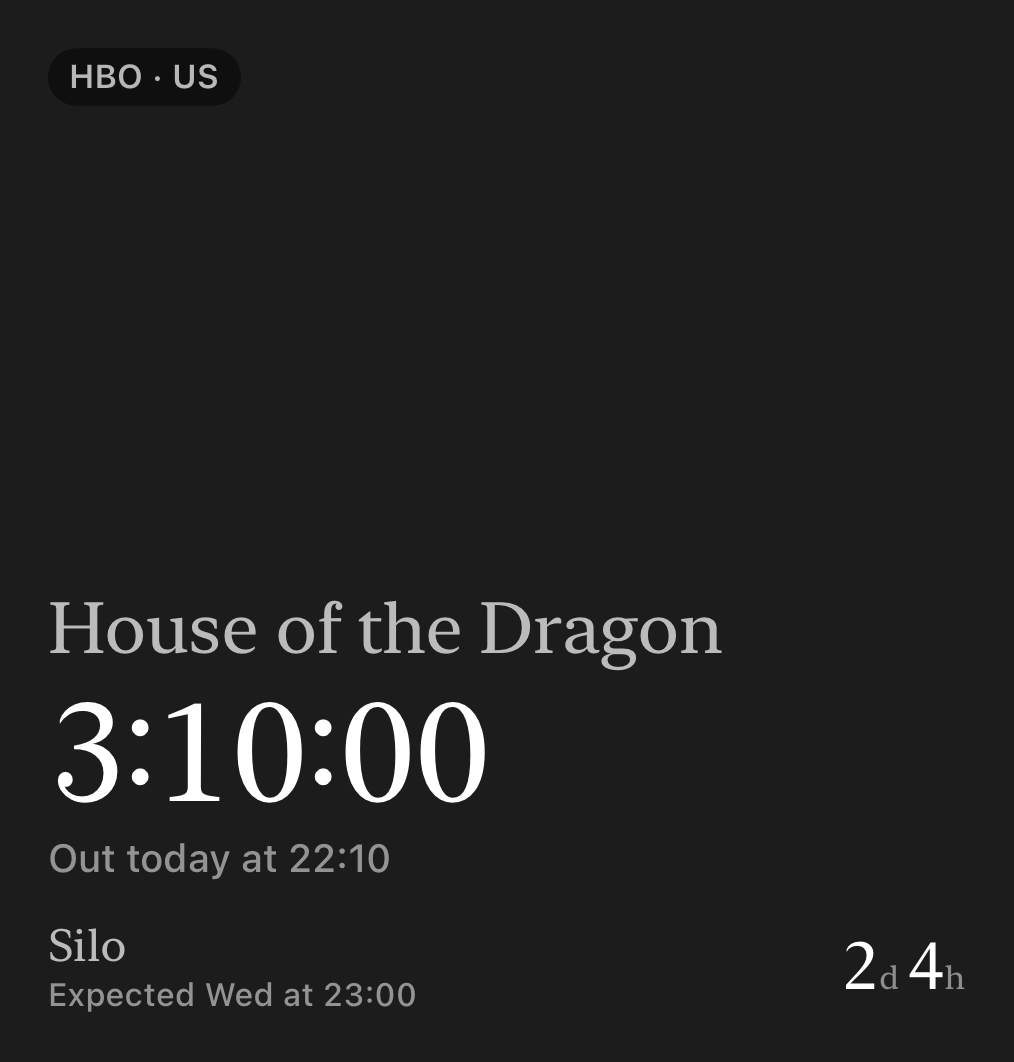
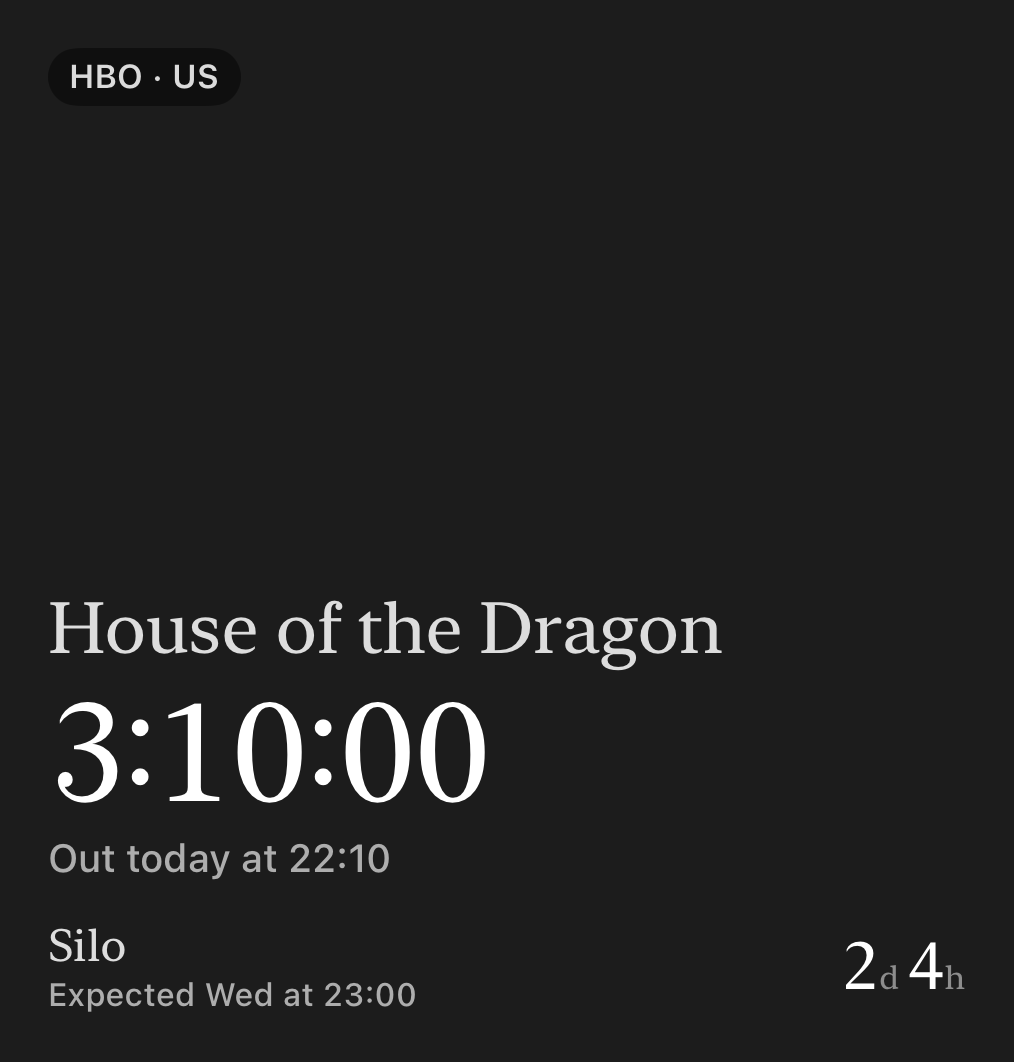
feat: the small audit items: one header style, legible Always-On, Smart Invert, one primary button, haptics, VoiceOver (UX audit #18, #21, #23, #26, #27, #29, #32)
- Search's "Results" uses the section-header style; grid titles are a step above their info lines.
- Always-On dims inks to 0.85 (muted text above 4.5:1; it was 3.45:1 at 0.7). Renders re-synced.
- Smart Invert leaves art, posters, wall tiles, logos (with their white tile) and widget posters alone.
- PrimaryButtonStyle: a white 50 pt capsule for Welcome's and empty Upcoming's "Find a show".
- Haptics on a follow that saved, the TV/Anime switch and a chip tap, each once.
- Spotlight, empty and Welcome headlines are headers; "S4E1 · HBO · US" is read "Season 4, episode 1, HBO US".

diff --git a/design-system/index.html b/design-system/index.html
@@ -774,15 +774,13 @@ Text(ReleaseWording.quietNote(status: show.status, lastAired: show.lastAired, fo
     </div>
     <div class="spec"><dl class="specs">
       <dt>Type</dt><dd>Headline New York 28 · error footnote, muted</dd>
-      <dt>Button</dt><dd><code>.borderedProminent</code>, white tint, black text, default height</dd>
+      <dt>Button</dt><dd><code>PrimaryButtonStyle</code>: the app’s one primary button, a white capsule at least 50 tall with black <code>.headline</code> text (UX audit #27)</dd>
       <dt>Layout</dt><dd>Sides 24, top 120</dd>
       <dt>Offline</dt><dd>When a refresh can’t reach every show, the last line says how old the times are and which shows didn’t refresh. “14:05” is the last refresh that reached every show, with the weekday when it was another day; no source is named (<code>UpcomingStatus</code>). A followed show’s next episode is asked again once its cached answer is 15 minutes old (D-59)</dd>
       <dt>IDs</dt><dd><code>upcoming-empty-follow</code>, <code>upcoming-empty-find</code>, <code>upcoming-empty</code>, <code>upcoming-failed</code></dd>
       <dt>Source</dt><dd class="path">Features/Upcoming/UpcomingView.swift:29-77, 120-133</dd>
     </dl><div class="codebox"><pre><code>Button("Find a show", action: onFind)
-    .buttonStyle(.borderedProminent)
-    .tint(.white)
-    .foregroundStyle(.black)
+    .buttonStyle(PrimaryButtonStyle())
     .accessibilityIdentifier("upcoming-empty-find")</code></pre></div></div>
   </article>
   </div>
@@ -879,7 +877,7 @@ AiringFilter.options(for: .tv)   // [.popular, .today, .newSeasons, .exactTime] 
     <div class="spec"><dl class="specs">
       <dt>Poster</dt><dd>2:3, radius 8; TVmaze 210 × 295, loaded at 420 px</dd>
       <dt>Type</dt><dd>Title footnote medium, two lines · meta caption, muted, two lines a part</dd>
-      <dt>Headers</dt><dd>New York 22: “Airing in the next few days” · “Airing in Japan this week” · “Results”</dd>
+      <dt>Headers</dt><dd>“Results” uses the section-header style Upcoming and Show detail use, SF Pro subheadline medium, muted (UX audit #18). Grid titles are subheadline medium, a step above their 12 pt info lines (#26)</dd>
       <dt>VoiceOver</dt><dd>“Tracker, button, Opens the show”; the meta reads as one line, “2023 · HBO · US · Running”</dd>
       <dt>IDs</dt><dd><code>airing-&lt;n&gt;</code> or <code>search-result-&lt;n&gt;</code>, with <code>-title</code>, <code>-meta</code>, <code>-follow</code>; headers <code>search-airing-header</code>, <code>search-results-header</code></dd>
       <dt>Hit target</dt><dd>The whole cell opens the show page; the (+) follows</dd>
@@ -1147,7 +1145,7 @@ Section {
       <dt>Wall</dt><dd>This week’s show art, under the status bar over the top 60% of the screen: three rows 128, 172 and 128 tall, 8 apart, each starting part-way into its run so no two line up. TV posters and anime covers, with the first three TV shows as wide key art and every third anime as its wide banner; posters 2:3, wide art 16:9, radius 10, on white at 0.05 until each picture loads. Dimmed with night at 0.18, faded out by 90% of the rows’ height, and night at 0.7 fading to clear over the top 96 pt. Under 9 pictures the screen stays plain night. Hidden from VoiceOver</dd>
       <dt>Motion</dt><dd>The wall fades in over 0.35 s, ease out, and so does each picture as it loads. Rows drift 9 pt a second, alternating direction. Under Reduce Motion the fades are skipped and the rows stay still</dd>
       <dt>Type</dt><dd>Logo lockup: the Longitudes mark (36 tall, gold star, scales with text size) and “Meridian” in New York title 2 (22), both Starlight · headline New York 34 · zone body medium, secondary</dd>
-      <dt>Primary</dt><dd>“Find a show”: full width, 48 tall, <code>.borderedProminent</code>, white tint, black text</dd>
+      <dt>Primary</dt><dd>“Find a show”: <code>PrimaryButtonStyle</code>, full width, at least 50 tall, white capsule, black <code>.headline</code></dd>
       <dt>Secondary</dt><dd>“Not now”: secondary ink, 44 tall</dd>
       <dt>IDs</dt><dd><code>welcome-logo</code>, <code>welcome-zone</code>, <code>welcome-find</code>, <code>welcome-later</code></dd>
       <dt>Source</dt><dd class="path">Features/Welcome/WelcomeView.swift · WelcomeWallView.swift · WelcomeWall.swift</dd>
@@ -1217,7 +1215,7 @@ Section {
     <div id="w-home" data-search="home screen widget backdrop art fade small medium large" data-title="Home Screen widgets" data-kind="Widget"><dt>Home Screen</dt><dd>Night base <code>#1C1C1C</code> with the show’s art across the top (all of it on small and medium, 62% on large), fading clear, then to 0.7, then to the base. The service is tagged top left (“HBO · US”), and “+N more this week” top right when shows don’t fit. Small shows one show, medium three, large four.</dd></div>
     <div id="w-lock" data-search="lock screen widget inline circular rectangular tinted" data-title="Lock Screen widgets" data-kind="Widget"><dt>Lock Screen</dt><dd>System inks, because iOS tints them. Inline: “Silo · 2d 4h”. Circular: an open ring that fills over the last 7 days, a <code>tv</code> glyph, and “2d”, “4h” or “38m” in the gap. Rectangular: “Expected Wed 23:00”, then the name, then the countdown and service.</dd></div>
     <div id="w-quiet" data-search="quiet rows nothing scheduled empty state follow a show returns widget" data-title="Quiet rows and empty states" data-kind="Widget"><dt>Quiet rows</dt><dd>Followed shows with nothing scheduled fill spare rows: poster, name, “Nothing scheduled”; the large widget adds why. Empty: “Follow a show” with “Its countdown shows up here.”, “Nothing scheduled” with “Meridian checks again each time you open it.”, or “Silo returns Fri 9 Jul 2027” with “Nothing else is scheduled.”</dd></div>
-    <div id="w-modes" data-search="always on tinted accented rendering modes widget dimmed" data-title="Rendering modes" data-kind="Widget"><dt>Tinted and Always-On</dt><dd>When tinted, the countdown takes the tint, and so does the headline when there’s nothing to count down (“Follow a show”, “Nothing scheduled”, “Silo returns …”). On the Lock Screen so do the inline line, the rectangular widget’s title, and the circular widget’s ring fill, value and date-only day number. Everything else keeps its ink, “Out now” loses its gold, and posters lose their colour. Always-On hides the art and dims every ink to 0.7 except the countdown and that empty headline.</dd></div>
+    <div id="w-modes" data-search="always on tinted accented rendering modes widget dimmed" data-title="Rendering modes" data-kind="Widget"><dt>Tinted and Always-On</dt><dd>When tinted, the countdown takes the tint, and so does the headline when there’s nothing to count down (“Follow a show”, “Nothing scheduled”, “Silo returns …”). On the Lock Screen so do the inline line, the rectangular widget’s title, and the circular widget’s ring fill, value and date-only day number. Everything else keeps its ink, “Out now” loses its gold, and posters lose their colour. Always-On hides the art and dims every ink to 0.85 except the countdown and that empty headline, so muted text stays above 4.5:1 (it was 0.7, 3.45:1: UX audit #21).</dd></div>
     <div id="w-a11y" data-search="widget voiceover accessibility label phrase" data-title="Widget VoiceOver" data-kind="Widget"><dt>VoiceOver</dt><dd>One full phrase a show: “House of the Dragon, in 3 hours, HBO US, no official stream in your country”; “Silo, expected in 2 days 4 hours, Apple TV”; “Nothing scheduled for your shows”. The episode title is left out, so nothing is spoiled.</dd></div>
     <div id="w-ids" data-search="widget ids accessibility identifiers" data-title="Widget IDs" data-kind="Widget"><dt>IDs</dt><dd><code>widget-inline</code> · <code>widget-circular-ring</code>, <code>-value</code> · <code>widget-rect-meta</code>, <code>-title</code>, <code>-countdown</code>, <code>-provider</code> · <code>widget-small-provider</code>, <code>-title</code>, <code>-countdown</code>, <code>-out</code> · <code>widget-medium-row-1</code> to <code>-3</code>, <code>widget-large-row-1</code> to <code>-4</code>, <code>widget-more</code>, <code>widget-medium-empty</code>, <code>widget-large-empty</code></dd></div>
   </dl>
@@ -1294,7 +1292,7 @@ Section {
       <tr><td>Contrast</td><td id="a11y-contrast">See the <a href="#contrast">contrast matrix</a>.</td><td id="a11y-contrast-status">See matrix</td></tr>
       <tr><td>Dynamic Type</td><td>Everything in the app grows with the text size. Serif titles keep their designed size (32, 34, 28, 22, 20) and grow like large titles (<code>.serif(_:relativeTo:)</code>); countdowns grow like a large title too, 1.76 times at the largest size. At the accessibility sizes: a row’s countdown goes under its title, the service line and titles are never cut, Show detail’s episodes stack, the art header is 280 tall, Search shows one poster a row, Welcome scrolls and drops the poster wall. Widgets and the Live Activity keep fixed sizes on their fixed canvas. Checked at AX5 on every main screen (2 Nov).</td><td>Done</td></tr>
       <tr><td>Reduce Motion</td><td>The three animations stop: the 0.35 s art fade and Welcome’s two fades (the wall, and each picture on it) are skipped, and the wall’s drifting rows stay still.</td><td>Done</td></tr>
-      <tr><td>Tinted and Always-On</td><td>The countdown and the empty headline take a widget’s tint; on the Lock Screen so do the inline line, the rectangular title and the circular ring, value and day number. Always-On hides the art and dims every other ink to 0.7.</td><td>Done</td></tr>
+      <tr><td>Tinted and Always-On</td><td>The countdown and the empty headline take a widget’s tint; on the Lock Screen so do the inline line, the rectangular title and the circular ring, value and day number. Always-On hides the art and dims every other ink to 0.85 (was 0.7), so muted text stays legible.</td><td>Done</td></tr>
       <tr><td>Decorative images</td><td>Art, posters, logos, the Welcome wall and the poster mark are hidden from VoiceOver. Only one picture is labelled: the key art on the show page that Search opens (<code>ShowPreviewView</code>), read “Silo artwork, image”. Show detail’s and Upcoming’s art stay hidden.</td><td>Done</td></tr>
     </tbody></table></div>
 

diff --git a/Meridian/Features/Search/SearchView.swift b/Meridian/Features/Search/SearchView.swift
@@ -18,6 +18,8 @@ struct SearchView: View {
 
     /// The show whose ✓ was tapped, waiting for "Stop following …?".
     @State private var unfollowing: SearchResult?
+    /// Counts follow taps in the grid: the success tick follows a tap here, not a follow made on a pushed show page.
+    @State private var followTaps = 0
     @Environment(\.dynamicTypeSize) private var dynamicTypeSize
     @Environment(\.modelContext) private var context
     @Query(sort: \FollowedShow.followedAt) private var followed: [FollowedShow]
@@ -54,6 +56,8 @@ struct SearchView: View {
                         ForEach(Kind.allCases, id: \.self) { Text($0.rawValue).tag($0) }
                     }
                     .pickerStyle(.segmented)
+                    .sensoryFeedback(.selection, trigger: kind)
+                    .sensoryFeedback(.success, trigger: followTaps)  // once for the whole grid, not per button
                     .accessibilityIdentifier("search-kind")
                     content
                 }
@@ -220,8 +224,10 @@ struct SearchView: View {
                                         drops: [Int: Drop] = [:],
                                         @ViewBuilder meta: @escaping (SearchResult) -> Meta) -> some View {
         VStack(alignment: .leading, spacing: Tokens.Space.s) {
+            // The section-header style Upcoming and Show detail use (UX audit #18): one role, one look.
             Text(header)
-                .serif(22, relativeTo: .title2)
+                .font(.subheadline.weight(.medium))
+                .foregroundStyle(NightInk.muted)
                 .accessibilityAddTraits(.isHeader)
                 .accessibilityIdentifier(headerID)
             // One poster a row at the accessibility sizes, so titles and their certainty words aren't cut (audit #24).
@@ -248,7 +254,7 @@ struct SearchView: View {
                     followButton(result, size: 32, id: "\(id)-follow").padding(Tokens.Space.xxs)
                 }
             Text(result.title)
-                .font(.footnote.weight(.medium))
+                .font(.subheadline.weight(.medium))  // a step above its 12 pt info lines (UX audit #26)
                 .lineLimit(dynamicTypeSize.isAccessibilitySize ? nil : 2)
                 .accessibilityAddTraits(.isButton)
                 .accessibilityHint("Opens the show")
@@ -271,7 +277,12 @@ struct SearchView: View {
         let following = followed.contains { $0.key == FollowedShow.key(catalog: result.catalog, id: result.id) }
         // Following is one tap; unfollowing asks first, as everywhere (UX audit #15).
         return Button {
-            if following { unfollowing = result } else { try? FollowStore(context: context).follow(result.followShow) }
+            if following {
+                unfollowing = result
+            } else {
+                // A tap you feel on follow, only once the show is really saved.
+                if (try? FollowStore(context: context).follow(result.followShow)) != nil { followTaps += 1 }
+            }
         } label: {
             Image(systemName: following ? "checkmark" : "plus")
                 .font(.system(size: size * 0.4, weight: .semibold))

diff --git a/Meridian/Features/Upcoming/UpcomingView.swift b/Meridian/Features/Upcoming/UpcomingView.swift
@@ -81,6 +81,7 @@ struct UpcomingView: View {
             // Nothing to feature (every drop has gone, or every show failed to load): SPEC's sentence on its own.
             Text(sections.emptyHeadline(formatter: formatter, now: now))
                 .serif(28, relativeTo: .title)
+                .accessibilityAddTraits(.isHeader)
                 .padding(.horizontal, Tokens.Space.l)
                 .padding(.top, 120)
                 .accessibilityIdentifier("upcoming-empty")
@@ -97,6 +98,7 @@ struct UpcomingView: View {
                 case .dateOnly(let drop):
                     Text(drop.showName)
                         .serif(32, relativeTo: .largeTitle)
+                        .accessibilityAddTraits(.isHeader)
                         .accessibilityIdentifier("upcoming-spotlight-title")
                     // The title already names the show, so the line is the usual wording (D-40), not "Silo returns …".
                     Text(ReleaseWording.outLine(drop, now: now, formatter: formatter))
@@ -106,6 +108,7 @@ struct UpcomingView: View {
                 case .quiet(let show):
                     Text(show.name)
                         .serif(32, relativeTo: .largeTitle)
+                        .accessibilityAddTraits(.isHeader)
                         .accessibilityIdentifier("upcoming-spotlight-title")
                     Text(ReleaseWording.quietNote(status: show.status, lastAired: show.lastAired, formatter: formatter,
                                                   now: now))
@@ -133,9 +136,7 @@ struct UpcomingView: View {
                 .serif(28, relativeTo: .title)
                 .accessibilityIdentifier("upcoming-empty-follow")
             Button("Find a show", action: onFind)
-                .buttonStyle(.borderedProminent)
-                .tint(.white)
-                .foregroundStyle(.black)
+                .buttonStyle(PrimaryButtonStyle())
                 .accessibilityIdentifier("upcoming-empty-find")
         }
         .padding(.horizontal, Tokens.Space.l)

diff --git a/Meridian/Features/Search/SearchFilterRow.swift b/Meridian/Features/Search/SearchFilterRow.swift
@@ -8,6 +8,8 @@ struct SearchFilterRow: View {
     let options: [SearchFilter]
     @Binding var selection: SearchFilter
     var logos: NetworkLogos = .empty
+    /// Counts chip taps, so the selection tick follows a tap only, not TV | Anime swapping in the other kind's filter.
+    @State private var taps = 0
 
     var body: some View {
         ScrollViewReader { proxy in
@@ -28,12 +30,14 @@ struct SearchFilterRow: View {
             .onAppear { Task { @MainActor in proxy.scrollTo(selection, anchor: .center) } }
             .onChange(of: options) { Task { @MainActor in proxy.scrollTo(selection, anchor: .center) } }
         }
+        .sensoryFeedback(.selection, trigger: taps)
         .accessibilityIdentifier("search-filters")
     }
 
     private func chip(_ option: SearchFilter) -> some View {
         let picked = option == selection
         return Button {
+            if !picked { taps += 1 }
             selection = option
         } label: {
             HStack(spacing: 0) {
@@ -63,6 +67,7 @@ struct SearchFilterRow: View {
                     Image(uiImage: image).resizable().scaledToFit().padding(3)
                         .frame(width: 30, height: 22)
                         .background(.white, in: RoundedRectangle(cornerRadius: 5))
+                        .accessibilityIgnoresInvertColors()  // the white tile too, or Smart Invert blacks it out
                         .padding(.trailing, Tokens.Space.xs)
                 } else {
                     // The tile's space, clear: the row keeps its width (and its scroll) while logos load, and one

diff --git a/Meridian/Features/Welcome/WelcomeView.swift b/Meridian/Features/Welcome/WelcomeView.swift
@@ -63,6 +63,7 @@ struct WelcomeView: View {
             lockup
             Text("How long until your next episode, in your time zone, and where it's on")
                 .serif(34, relativeTo: .largeTitle)
+                .accessibilityAddTraits(.isHeader)
                 .fixedSize(horizontal: false, vertical: true)
                 .padding(.top, Tokens.Space.m)
             Text("Times shown for \(ReleaseWording.zoneSummary(formatter, at: .now))")
@@ -71,13 +72,9 @@ struct WelcomeView: View {
                 .accessibilityIdentifier("welcome-zone")
                 .padding(.top, Tokens.Space.s)
             VStack(spacing: Tokens.Space.s) {
-                Button(action: onFind) {
-                    Text("Find a show").frame(maxWidth: .infinity).frame(minHeight: 48)
-                }
-                .buttonStyle(.borderedProminent)
-                .tint(.white)
-                .foregroundStyle(.black)
-                .accessibilityIdentifier("welcome-find")
+                Button("Find a show", action: onFind)
+                    .buttonStyle(PrimaryButtonStyle())
+                    .accessibilityIdentifier("welcome-find")
                 Button("Not now", action: onLater)
                     .foregroundStyle(NightInk.secondary)
                     .frame(minHeight: 44)

diff --git a/Meridian/Features/Common/PrimaryButtonStyle.swift b/Meridian/Features/Common/PrimaryButtonStyle.swift
@@ -1,0 +1,15 @@
+import SwiftUI
+
+/// The app's primary button (UX audit #27): a white capsule at least 50 pt tall with black `.headline` text, dimming a
+/// little while pressed. Welcome's and empty Upcoming's "Find a show" use it; the show page's Follow keeps its own two
+/// states (white "Follow", outlined "Following") in the same shape and type.
+struct PrimaryButtonStyle: ButtonStyle {
+    func makeBody(configuration: Configuration) -> some View {
+        configuration.label
+            .font(.headline)
+            .foregroundStyle(.black)
+            .frame(maxWidth: .infinity, minHeight: 50)
+            .background(.white, in: Capsule())
+            .opacity(configuration.isPressed ? 0.8 : 1)
+    }
+}

diff --git a/Meridian/Features/Common/NightStyle.swift b/Meridian/Features/Common/NightStyle.swift
@@ -25,6 +25,13 @@ extension Drop {
     var episodeAndProvider: String {
         [episodeLabel, provider?.display].compactMap(\.self).joined(separator: " · ")
     }
+
+    /// The same line as VoiceOver should say it: "Season 4, episode 1, HBO US", not "S 4 E 1" (UX audit #32).
+    var spokenEpisodeAndProvider: String {
+        let episode = number.map { n in season.map { "Season \($0), episode \(n)" } ?? "Episode \(n)" }
+        let service = provider?.display.replacingOccurrences(of: " · ", with: " ")
+        return [episode, service].compactMap(\.self).joined(separator: ", ")
+    }
 }
 
 

diff --git a/Meridian/Features/Search/ShowPreviewView.swift b/Meridian/Features/Search/ShowPreviewView.swift
@@ -107,6 +107,7 @@ struct ShowPreviewView: View {
         }
         .buttonStyle(.plain)
         .accessibilityLabel(following ? "Following \(result.title)" : "Follow \(result.title)")
+        .sensoryFeedback(.success, trigger: following) { old, new in !old && new }
         .accessibilityIdentifier("show-preview-follow")
         .unfollowConfirmation(result.title, isPresented: $confirmingUnfollow) {
             try? FollowStore(context: context).unfollow(catalog: result.catalog, id: result.id)

diff --git a/Meridian/Features/Upcoming/UpcomingHero.swift b/Meridian/Features/Upcoming/UpcomingHero.swift
@@ -78,6 +78,7 @@ struct ReleaseMeta: View {
             }
             // One line normally; never cut at the accessibility sizes, where "HBO · US" lost its country (audit #6).
             Text(drop.episodeAndProvider)
+                .accessibilityLabel(drop.spokenEpisodeAndProvider)
                 .font(.footnote)
                 .foregroundStyle(NightInk.muted)
                 .lineLimit(dynamicTypeSize.isAccessibilitySize ? nil : 1)

diff --git a/Shared/Widgets/WidgetPosterThumb.swift b/Shared/Widgets/WidgetPosterThumb.swift
@@ -18,6 +18,7 @@ struct WidgetPosterThumb: View {
                         .resizable()
                         .widgetAccentedRenderingMode(.desaturated)
                         .scaledToFill()
+                        .accessibilityIgnoresInvertColors()
                 }
             }
             .frame(width: height * 2 / 3, height: height)

diff --git a/Meridian/Features/Welcome/WelcomeWallView.swift b/Meridian/Features/Welcome/WelcomeWallView.swift
@@ -143,6 +143,7 @@ private struct WallTile: View {
             .overlay {
                 if let image {
                     Image(uiImage: image).resizable().scaledToFill().transition(.opacity)
+                        .accessibilityIgnoresInvertColors()
                 }
             }
             .frame(width: width, height: height)

diff --git a/Meridian/Features/Artwork/ArtworkLoaderView.swift b/Meridian/Features/Artwork/ArtworkLoaderView.swift
@@ -54,6 +54,7 @@ struct ArtworkFill: View {
             .overlay {
                 if let image {
                     Image(uiImage: image).resizable().scaledToFill()
+                        .accessibilityIgnoresInvertColors()  // Smart Invert leaves art alone (audit #23)
                 }
             }
             .clipped()
